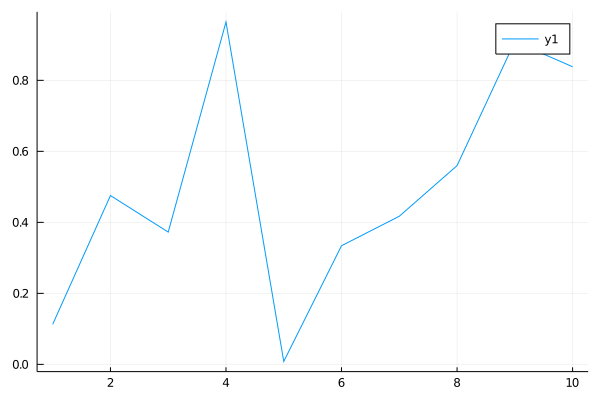
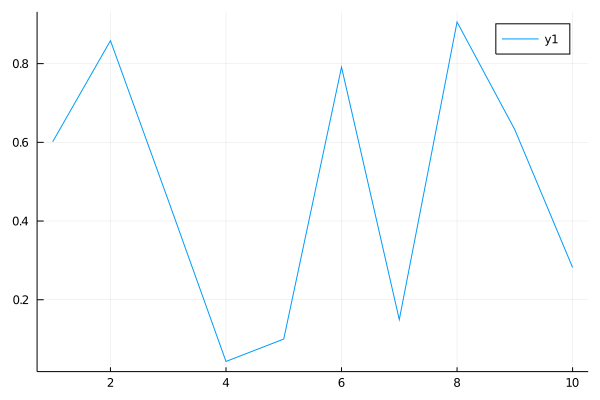
long description

diff --git a/docs/posts/2021-02-03-forcats-for-categorical-data/index.html b/docs/posts/2021-02-03-forcats-for-categorical-data/index.html
@@ -8,7 +8,7 @@
     
         <meta name="date" content="2020-12-03" />
     
-    <title>Forcats Package</title>
+    <title>Forcats Package with a connection to tidyverse worlds: stringr, dplyr and ggplot2</title>
 
     <script src="https://www.gstatic.com/firebasejs/8.2.4/firebase.js"></script>
     <script src="https://www.gstatic.com/firebasejs/8.2.4/firebase-analytics.js"></script>
@@ -102,10 +102,10 @@
 <div class="row">
 <div class="col-md-6">
 <h2>
-Forcats Package
+Forcats Package with a connection to tidyverse worlds: stringr, dplyr and ggplot2
 </h2>
 <p>
-A short description of the post.
+Data science is an inter-disciplinary field that uses scientific methods, processes, algorithms and systems to extract knowledge and insights from many structural and unstructured data. Data science is related to data mining, machine learning and big data.
 </p>
 </div>
 <div class="col-md-2">
@@ -214,16 +214,16 @@ St
 <div class="sourceCode" id="cb6"><pre class="sourceCode julia"><code class="sourceCode julia"><span id="cb6-1"><a href="#cb6-1" aria-hidden="true" tabindex="-1"></a><span class="kw">using</span> Plots</span>
 <span id="cb6-2"><a href="#cb6-2" aria-hidden="true" tabindex="-1"></a>x <span class="op">=</span> <span class="fl">1</span><span class="op">:</span><span class="fl">10</span><span class="op">;</span> y <span class="op">=</span> rand(<span class="fl">10</span>)<span class="op">;</span> <span class="co"># These are the plotting data</span></span></code></pre></div>
 <pre><code>## 10-element Array{Float64,1}:
-##  0.11277145031267777
-##  0.4754567909936862
-##  0.3725526234199943
-##  0.964307297981265
-##  0.008298272502518245
-##  0.33419178950307615
-##  0.4172366319011356
-##  0.5598175748003544
-##  0.9091656578136089
-##  0.8381883869098832</code></pre>
+##  0.6013974250879695
+##  0.8583726562349647
+##  0.4529402455441247
+##  0.043253876208847464
+##  0.10017247606631452
+##  0.7911246932030787
+##  0.14951949150057753
+##  0.9057906631941237
+##  0.6320501273610388
+##  0.2820365798696074</code></pre>
 <div class="sourceCode" id="cb8"><pre class="sourceCode julia"><code class="sourceCode julia"><span id="cb8-1"><a href="#cb8-1" aria-hidden="true" tabindex="-1"></a>plot(x<span class="op">,</span> y)</span></code></pre></div>
 <img src="forcats_files/figure-html/myjulia-J1.png" width="300" />
 </div>
@@ -479,9 +479,9 @@ model {
 ## Chain 1: Iteration: 1800 / 2000 [ 90%]  (Sampling)
 ## Chain 1: Iteration: 2000 / 2000 [100%]  (Sampling)
 ## Chain 1: 
-## Chain 1:  Elapsed Time: 0.01059 seconds (Warm-up)
-## Chain 1:                0.009554 seconds (Sampling)
-## Chain 1:                0.020144 seconds (Total)
+## Chain 1:  Elapsed Time: 0.010148 seconds (Warm-up)
+## Chain 1:                0.010339 seconds (Sampling)
+## Chain 1:                0.020487 seconds (Total)
 ## Chain 1: 
 ## 
 ## SAMPLING FOR MODEL &#39;6c400a2ac89dae0e85da9f7673dc5d1c&#39; NOW (CHAIN 2).
@@ -504,9 +504,9 @@ model {
 ## Chain 2: Iteration: 1800 / 2000 [ 90%]  (Sampling)
 ## Chain 2: Iteration: 2000 / 2000 [100%]  (Sampling)
 ## Chain 2: 
-## Chain 2:  Elapsed Time: 0.010677 seconds (Warm-up)
-## Chain 2:                0.010086 seconds (Sampling)
-## Chain 2:                0.020763 seconds (Total)
+## Chain 2:  Elapsed Time: 0.010613 seconds (Warm-up)
+## Chain 2:                0.010067 seconds (Sampling)
+## Chain 2:                0.02068 seconds (Total)
 ## Chain 2: 
 ## 
 ## SAMPLING FOR MODEL &#39;6c400a2ac89dae0e85da9f7673dc5d1c&#39; NOW (CHAIN 3).
@@ -529,15 +529,15 @@ model {
 ## Chain 3: Iteration: 1800 / 2000 [ 90%]  (Sampling)
 ## Chain 3: Iteration: 2000 / 2000 [100%]  (Sampling)
 ## Chain 3: 
-## Chain 3:  Elapsed Time: 0.012992 seconds (Warm-up)
-## Chain 3:                0.012934 seconds (Sampling)
-## Chain 3:                0.025926 seconds (Total)
+## Chain 3:  Elapsed Time: 0.012257 seconds (Warm-up)
+## Chain 3:                0.011244 seconds (Sampling)
+## Chain 3:                0.023501 seconds (Total)
 ## Chain 3: 
 ## 
 ## SAMPLING FOR MODEL &#39;6c400a2ac89dae0e85da9f7673dc5d1c&#39; NOW (CHAIN 4).
 ## Chain 4: 
-## Chain 4: Gradient evaluation took 1e-05 seconds
-## Chain 4: 1000 transitions using 10 leapfrog steps per transition would take 0.1 seconds.
+## Chain 4: Gradient evaluation took 9e-06 seconds
+## Chain 4: 1000 transitions using 10 leapfrog steps per transition would take 0.09 seconds.
 ## Chain 4: Adjust your expectations accordingly!
 ## Chain 4: 
 ## Chain 4: 
@@ -554,9 +554,9 @@ model {
 ## Chain 4: Iteration: 1800 / 2000 [ 90%]  (Sampling)
 ## Chain 4: Iteration: 2000 / 2000 [100%]  (Sampling)
 ## Chain 4: 
-## Chain 4:  Elapsed Time: 0.011432 seconds (Warm-up)
-## Chain 4:                0.010174 seconds (Sampling)
-## Chain 4:                0.021606 seconds (Total)
+## Chain 4:  Elapsed Time: 0.010689 seconds (Warm-up)
+## Chain 4:                0.010722 seconds (Sampling)
+## Chain 4:                0.021411 seconds (Total)
 ## Chain 4:</code></pre>
 <div class="sourceCode" id="cb21"><pre class="sourceCode r"><code class="sourceCode r"><span id="cb21-1"><a href="#cb21-1" aria-hidden="true" tabindex="-1"></a>fit</span></code></pre></div>
 <pre><code>## Inference for Stan model: 6c400a2ac89dae0e85da9f7673dc5d1c.
@@ -564,11 +564,11 @@ model {
 ## post-warmup draws per chain=1000, total post-warmup draws=4000.
 ## 
 ##       mean se_mean   sd  2.5%   25%   50%   75% 97.5% n_eff Rhat
-## y[1]  0.00    0.02 0.98 -1.94 -0.66  0.00  0.66  1.90  1750    1
-## y[2] -0.10    0.06 2.74 -6.15 -1.43 -0.03  1.37  5.34  2060    1
-## lp__ -1.46    0.04 1.18 -4.45 -2.02 -1.16 -0.59 -0.11  1118    1
+## y[1] -0.01    0.02 0.98 -1.86 -0.67 -0.04  0.66  1.98  1659    1
+## y[2]  0.09    0.06 2.73 -5.69 -1.28  0.04  1.37  6.08  2252    1
+## lp__ -1.44    0.03 1.18 -4.62 -1.97 -1.12 -0.59 -0.11  1222    1
 ## 
-## Samples were drawn using NUTS(diag_e) at Sun Mar 14 00:34:26 2021.
+## Samples were drawn using NUTS(diag_e) at Sun Mar 14 10:20:55 2021.
 ## For each parameter, n_eff is a crude measure of effective sample size,
 ## and Rhat is the potential scale reduction factor on split chains (at 
 ## convergence, Rhat=1).</code></pre>

diff --git a/posts/2021-02-03-forcats-for-categorical-data/forcats.html b/posts/2021-02-03-forcats-for-categorical-data/forcats.html
@@ -8,7 +8,7 @@
     
         <meta name="date" content="2020-12-03" />
     
-    <title>Forcats Package</title>
+    <title>Forcats Package with a connection to tidyverse worlds: stringr, dplyr and ggplot2</title>
 
     <script src="https://www.gstatic.com/firebasejs/8.2.4/firebase.js"></script>
     <script src="https://www.gstatic.com/firebasejs/8.2.4/firebase-analytics.js"></script>
@@ -102,10 +102,10 @@
 <div class="row">
 <div class="col-md-6">
 <h2>
-Forcats Package
+Forcats Package with a connection to tidyverse worlds: stringr, dplyr and ggplot2
 </h2>
 <p>
-A short description of the post.
+Data science is an inter-disciplinary field that uses scientific methods, processes, algorithms and systems to extract knowledge and insights from many structural and unstructured data. Data science is related to data mining, machine learning and big data.
 </p>
 </div>
 <div class="col-md-2">
@@ -214,16 +214,16 @@ St
 <div class="sourceCode" id="cb6"><pre class="sourceCode julia"><code class="sourceCode julia"><span id="cb6-1"><a href="#cb6-1" aria-hidden="true" tabindex="-1"></a><span class="kw">using</span> Plots</span>
 <span id="cb6-2"><a href="#cb6-2" aria-hidden="true" tabindex="-1"></a>x <span class="op">=</span> <span class="fl">1</span><span class="op">:</span><span class="fl">10</span><span class="op">;</span> y <span class="op">=</span> rand(<span class="fl">10</span>)<span class="op">;</span> <span class="co"># These are the plotting data</span></span></code></pre></div>
 <pre><code>## 10-element Array{Float64,1}:
-##  0.11277145031267777
-##  0.4754567909936862
-##  0.3725526234199943
-##  0.964307297981265
-##  0.008298272502518245
-##  0.33419178950307615
-##  0.4172366319011356
-##  0.5598175748003544
-##  0.9091656578136089
-##  0.8381883869098832</code></pre>
+##  0.6013974250879695
+##  0.8583726562349647
+##  0.4529402455441247
+##  0.043253876208847464
+##  0.10017247606631452
+##  0.7911246932030787
+##  0.14951949150057753
+##  0.9057906631941237
+##  0.6320501273610388
+##  0.2820365798696074</code></pre>
 <div class="sourceCode" id="cb8"><pre class="sourceCode julia"><code class="sourceCode julia"><span id="cb8-1"><a href="#cb8-1" aria-hidden="true" tabindex="-1"></a>plot(x<span class="op">,</span> y)</span></code></pre></div>
 <img src="forcats_files/figure-html/myjulia-J1.png" width="300" />
 </div>
@@ -479,9 +479,9 @@ model {
 ## Chain 1: Iteration: 1800 / 2000 [ 90%]  (Sampling)
 ## Chain 1: Iteration: 2000 / 2000 [100%]  (Sampling)
 ## Chain 1: 
-## Chain 1:  Elapsed Time: 0.01059 seconds (Warm-up)
-## Chain 1:                0.009554 seconds (Sampling)
-## Chain 1:                0.020144 seconds (Total)
+## Chain 1:  Elapsed Time: 0.010148 seconds (Warm-up)
+## Chain 1:                0.010339 seconds (Sampling)
+## Chain 1:                0.020487 seconds (Total)
 ## Chain 1: 
 ## 
 ## SAMPLING FOR MODEL &#39;6c400a2ac89dae0e85da9f7673dc5d1c&#39; NOW (CHAIN 2).
@@ -504,9 +504,9 @@ model {
 ## Chain 2: Iteration: 1800 / 2000 [ 90%]  (Sampling)
 ## Chain 2: Iteration: 2000 / 2000 [100%]  (Sampling)
 ## Chain 2: 
-## Chain 2:  Elapsed Time: 0.010677 seconds (Warm-up)
-## Chain 2:                0.010086 seconds (Sampling)
-## Chain 2:                0.020763 seconds (Total)
+## Chain 2:  Elapsed Time: 0.010613 seconds (Warm-up)
+## Chain 2:                0.010067 seconds (Sampling)
+## Chain 2:                0.02068 seconds (Total)
 ## Chain 2: 
 ## 
 ## SAMPLING FOR MODEL &#39;6c400a2ac89dae0e85da9f7673dc5d1c&#39; NOW (CHAIN 3).
@@ -529,15 +529,15 @@ model {
 ## Chain 3: Iteration: 1800 / 2000 [ 90%]  (Sampling)
 ## Chain 3: Iteration: 2000 / 2000 [100%]  (Sampling)
 ## Chain 3: 
-## Chain 3:  Elapsed Time: 0.012992 seconds (Warm-up)
-## Chain 3:                0.012934 seconds (Sampling)
-## Chain 3:                0.025926 seconds (Total)
+## Chain 3:  Elapsed Time: 0.012257 seconds (Warm-up)
+## Chain 3:                0.011244 seconds (Sampling)
+## Chain 3:                0.023501 seconds (Total)
 ## Chain 3: 
 ## 
 ## SAMPLING FOR MODEL &#39;6c400a2ac89dae0e85da9f7673dc5d1c&#39; NOW (CHAIN 4).
 ## Chain 4: 
-## Chain 4: Gradient evaluation took 1e-05 seconds
-## Chain 4: 1000 transitions using 10 leapfrog steps per transition would take 0.1 seconds.
+## Chain 4: Gradient evaluation took 9e-06 seconds
+## Chain 4: 1000 transitions using 10 leapfrog steps per transition would take 0.09 seconds.
 ## Chain 4: Adjust your expectations accordingly!
 ## Chain 4: 
 ## Chain 4: 
@@ -554,9 +554,9 @@ model {
 ## Chain 4: Iteration: 1800 / 2000 [ 90%]  (Sampling)
 ## Chain 4: Iteration: 2000 / 2000 [100%]  (Sampling)
 ## Chain 4: 
-## Chain 4:  Elapsed Time: 0.011432 seconds (Warm-up)
-## Chain 4:                0.010174 seconds (Sampling)
-## Chain 4:                0.021606 seconds (Total)
+## Chain 4:  Elapsed Time: 0.010689 seconds (Warm-up)
+## Chain 4:                0.010722 seconds (Sampling)
+## Chain 4:                0.021411 seconds (Total)
 ## Chain 4:</code></pre>
 <div class="sourceCode" id="cb21"><pre class="sourceCode r"><code class="sourceCode r"><span id="cb21-1"><a href="#cb21-1" aria-hidden="true" tabindex="-1"></a>fit</span></code></pre></div>
 <pre><code>## Inference for Stan model: 6c400a2ac89dae0e85da9f7673dc5d1c.
@@ -564,11 +564,11 @@ model {
 ## post-warmup draws per chain=1000, total post-warmup draws=4000.
 ## 
 ##       mean se_mean   sd  2.5%   25%   50%   75% 97.5% n_eff Rhat
-## y[1]  0.00    0.02 0.98 -1.94 -0.66  0.00  0.66  1.90  1750    1
-## y[2] -0.10    0.06 2.74 -6.15 -1.43 -0.03  1.37  5.34  2060    1
-## lp__ -1.46    0.04 1.18 -4.45 -2.02 -1.16 -0.59 -0.11  1118    1
+## y[1] -0.01    0.02 0.98 -1.86 -0.67 -0.04  0.66  1.98  1659    1
+## y[2]  0.09    0.06 2.73 -5.69 -1.28  0.04  1.37  6.08  2252    1
+## lp__ -1.44    0.03 1.18 -4.62 -1.97 -1.12 -0.59 -0.11  1222    1
 ## 
-## Samples were drawn using NUTS(diag_e) at Sun Mar 14 00:34:26 2021.
+## Samples were drawn using NUTS(diag_e) at Sun Mar 14 10:20:55 2021.
 ## For each parameter, n_eff is a crude measure of effective sample size,
 ## and Rhat is the potential scale reduction factor on split chains (at 
 ## convergence, Rhat=1).</code></pre>

diff --git a/docs/About.html b/docs/About.html
@@ -26,8 +26,8 @@
         <script src="site_libs/Index_page-0.1.0/Index_page.js"></script>
         <script> var json ={
           "forcats": {
-            "title": ["Forcats Package"],
-            "description": ["A short description of the post.\n"],
+            "title": ["Forcats Package with a connection to tidyverse worlds: stringr, dplyr and ggplot2"],
+            "description": ["Data science is an inter-disciplinary field that uses scientific methods, processes, algorithms and systems to extract knowledge and insights from many structural and unstructured data. Data science is related to data mining, machine learning and big data.\n"],
             "author": [
               {
                 "name": ["Ardalan Mirshani"],

diff --git a/docs/Contributing.html b/docs/Contributing.html
@@ -26,8 +26,8 @@
         <script src="site_libs/Index_page-0.1.0/Index_page.js"></script>
         <script> var json ={
           "forcats": {
-            "title": ["Forcats Package"],
-            "description": ["A short description of the post.\n"],
+            "title": ["Forcats Package with a connection to tidyverse worlds: stringr, dplyr and ggplot2"],
+            "description": ["Data science is an inter-disciplinary field that uses scientific methods, processes, algorithms and systems to extract knowledge and insights from many structural and unstructured data. Data science is related to data mining, machine learning and big data.\n"],
             "author": [
               {
                 "name": ["Ardalan Mirshani"],

diff --git a/docs/Get_started.html b/docs/Get_started.html
@@ -26,8 +26,8 @@
         <script src="site_libs/Index_page-0.1.0/Index_page.js"></script>
         <script> var json ={
           "forcats": {
-            "title": ["Forcats Package"],
-            "description": ["A short description of the post.\n"],
+            "title": ["Forcats Package with a connection to tidyverse worlds: stringr, dplyr and ggplot2"],
+            "description": ["Data science is an inter-disciplinary field that uses scientific methods, processes, algorithms and systems to extract knowledge and insights from many structural and unstructured data. Data science is related to data mining, machine learning and big data.\n"],
             "author": [
               {
                 "name": ["Ardalan Mirshani"],

diff --git a/docs/index.html b/docs/index.html
@@ -26,8 +26,8 @@
         <script src="site_libs/Index_page-0.1.0/Index_page.js"></script>
         <script> var json ={
           "forcats": {
-            "title": ["Forcats Package"],
-            "description": ["A short description of the post.\n"],
+            "title": ["Forcats Package with a connection to tidyverse worlds: stringr, dplyr and ggplot2"],
+            "description": ["Data science is an inter-disciplinary field that uses scientific methods, processes, algorithms and systems to extract knowledge and insights from many structural and unstructured data. Data science is related to data mining, machine learning and big data.\n"],
             "author": [
               {
                 "name": ["Ardalan Mirshani"],
